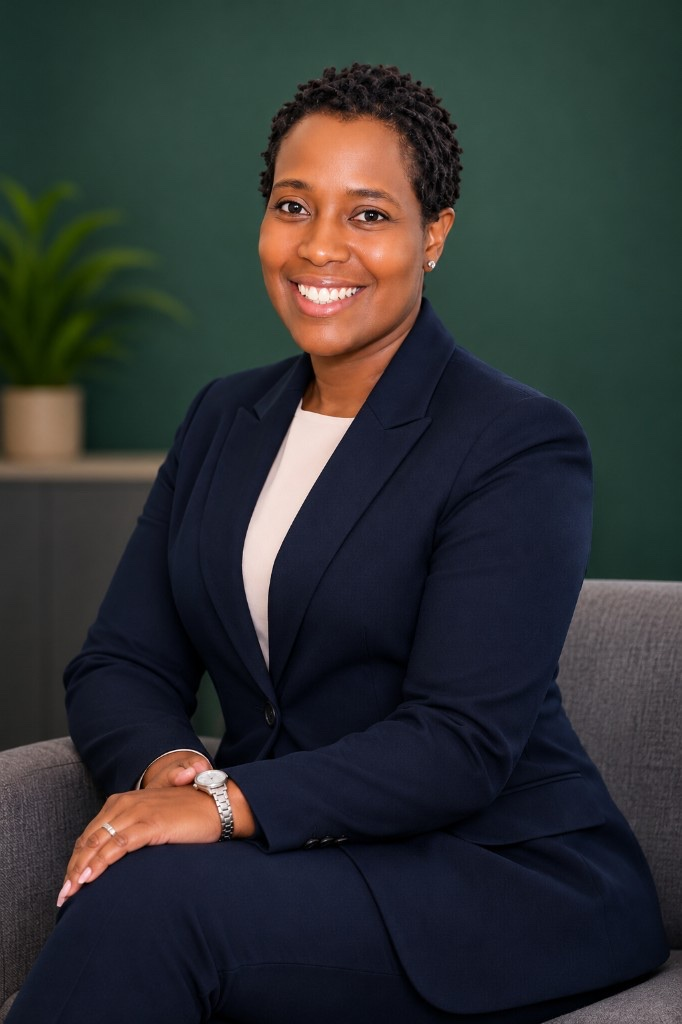
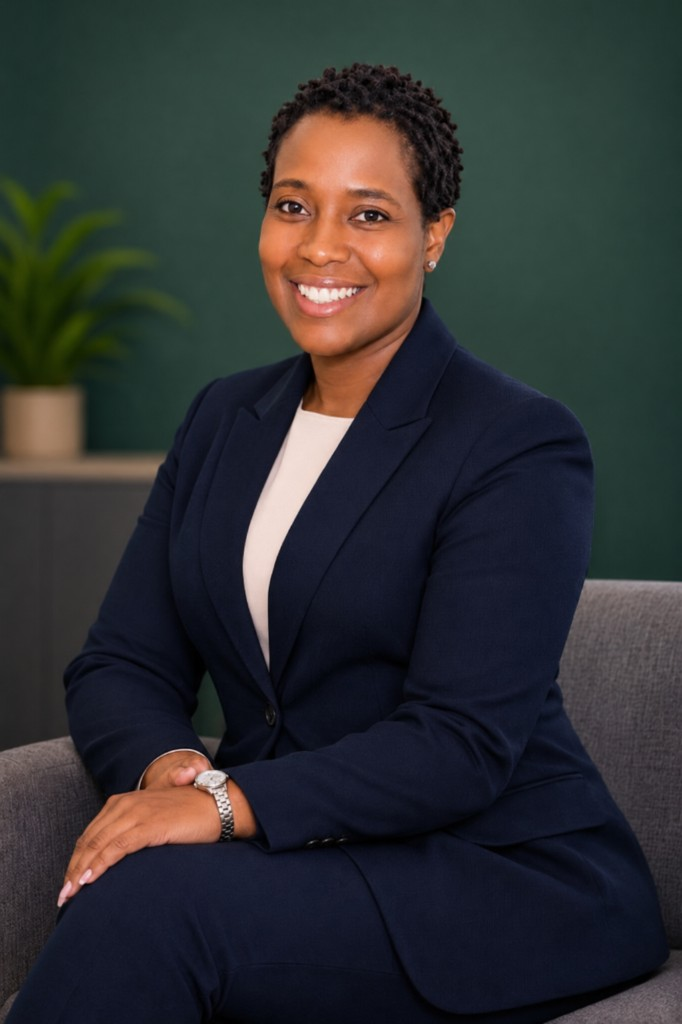
Open demos in Calendly, refresh Eliza’s portrait, and fix modal scrolling.
Request a demo now launches the discovery-call booker, the ring-free portrait is live, and portfolio modals stay within the viewport with a scrollable body on stacked layouts.

diff --git a/src/styles.css b/src/styles.css
@@ -1224,6 +1224,7 @@ html, body { max-width: 100%; overflow-x: clip; }
   position: fixed; z-index: 300; inset: 0; display: grid; place-items: center;
   padding: 24px; background: rgba(4, 17, 12, 0.8); backdrop-filter: blur(13px);
   opacity: 0; transition: opacity 0.32s ease;
+  overflow: auto; overscroll-behavior: contain;
 }
 .modal-backdrop.is-opening,
 .modal-backdrop.is-open { opacity: 1; }
@@ -1233,7 +1234,7 @@ html, body { max-width: 100%; overflow-x: clip; }
   grid-template-columns: minmax(0, 1.15fr) minmax(340px, 0.9fr);
   align-items: stretch;
   width: min(1080px, 100%);
-  max-height: min(820px, calc(100vh - 48px));
+  max-height: min(820px, calc(100dvh - 48px), calc(100vh - 48px));
   overflow: hidden; color: #0d261d; background: #f4f3eb; border-radius: 24px;
   box-shadow: 0 42px 120px rgba(0, 0, 0, 0.4);
   transform-origin: center center;
@@ -1326,8 +1327,11 @@ html, body { max-width: 100%; overflow-x: clip; }
   animation: none;
 }
 .modal-copy {
-  overflow: visible; padding: 48px 40px 40px;
-  display: flex; flex-direction: column; justify-content: center;
+  min-height: 0; overflow-x: hidden; overflow-y: auto;
+  overscroll-behavior: contain;
+  padding: 48px 40px 40px;
+  display: flex; flex-direction: column; justify-content: flex-start;
+  -webkit-overflow-scrolling: touch;
 }
 .modal-client {
   margin: 0 0 18px; color: #576a5e; font-size: 0.76rem;
@@ -1469,13 +1473,27 @@ html, body { max-width: 100%; overflow-x: clip; }
   .footer-grid { grid-template-columns: 1fr 1fr; }
   .footer-links { grid-column: 1 / -1; }
   .project-modal {
-    grid-template-columns: 1fr; max-width: 760px;
-    max-height: calc(100vh - 48px); overflow: hidden;
+    grid-template-columns: 1fr;
+    grid-template-rows: auto auto;
+    align-content: start;
+    max-width: 760px;
+    max-height: calc(100dvh - 24px);
+    max-height: calc(100vh - 24px);
+    overflow-x: hidden;
+    overflow-y: auto;
+    overscroll-behavior: contain;
+    -webkit-overflow-scrolling: touch;
   }
   .modal-media {
-    height: auto; min-height: 260px; max-height: 40vh;
+    height: auto; min-height: 200px; max-height: 34vh;
   }
-  .modal-copy { overflow-y: auto; }
+  .modal-slides { padding: 78px 14px 52px; }
+  .modal-slide img { max-height: min(260px, 26vh); }
+  .modal-copy {
+    overflow: visible;
+    justify-content: flex-start;
+    padding: 28px 28px 28px;
+  }
 }
 
 @media (max-width: 640px) {
@@ -1528,11 +1546,16 @@ html, body { max-width: 100%; overflow-x: clip; }
   .footer-links { grid-template-columns: repeat(2, 1fr); }
   .footer-base { display: grid; gap: 8px; }
   .modal-backdrop { align-items: end; padding: 0; }
-  .project-modal { max-height: 94vh; border-radius: 20px 20px 0 0; }
-  .modal-media { max-height: 38vh; }
+  .project-modal {
+    width: 100%; max-width: none;
+    max-height: 94dvh; max-height: 94vh;
+    border-radius: 20px 20px 0 0;
+  }
+  .modal-media { max-height: 30vh; min-height: 180px; }
   .modal-media-header { padding: 16px 14px 22px; }
-  .modal-slides { padding: 84px 12px 58px; }
-  .modal-copy { padding: 28px 22px 24px; }
+  .modal-slides { padding: 76px 12px 52px; }
+  .modal-slide img { max-height: min(200px, 22vh); }
+  .modal-copy { padding: 24px 20px calc(28px + env(safe-area-inset-bottom, 0px)); }
   .people-grid { gap: 12px; min-height: 0; }
   .person-frame { min-height: 480px; }
   .person-caption h3 { font-size: 1.05rem; }

diff --git a/src/App.tsx b/src/App.tsx
@@ -152,7 +152,7 @@ const innovations = [
       "Accessibility evaluation against WCAG 2.1 AA",
     ],
     cta: "Request a demo",
-    href: enquireEmail("Course Quality Benchmarking Platform demo"),
+    calendly: true,
     secondaryCta: "WhatsApp",
     secondaryHref: enquireWhatsApp("Course Quality Benchmarking Platform") ?? undefined,
   },
@@ -826,12 +826,22 @@ function App() {
                     </ul>
                     <div className="product-compact-cta">
                       <div className="product-compact-actions">
-                        <a
-                          className="button button-gold product-compact-action"
-                          href={item.href}
-                        >
-                          {item.cta}
-                        </a>
+                        {"calendly" in item && item.calendly ? (
+                          <button
+                            className="button button-gold product-compact-action"
+                            type="button"
+                            onClick={openCalendly}
+                          >
+                            <Calendar size={17} /> {item.cta}
+                          </button>
+                        ) : (
+                          <a
+                            className="button button-gold product-compact-action"
+                            href={"href" in item ? item.href : undefined}
+                          >
+                            {item.cta}
+                          </a>
+                        )}
                         {item.secondaryHref && item.secondaryCta && (
                           <a
                             className="button button-outline product-compact-action"
@@ -899,12 +909,13 @@ function App() {
                 </p>
               </div>
               <div className="button-row platform-actions">
-                <a
+                <button
                   className="button button-primary"
-                  href={enquireEmail("Course Quality Benchmarking Platform demo")}
+                  type="button"
+                  onClick={openCalendly}
                 >
-                  <Mail size={17} /> Request a demo
-                </a>
+                  <Calendar size={17} /> Request a demo
+                </button>
                 {platformWhatsApp && (
                   <a
                     className="button button-outline"

diff --git a/src/data/contact.ts b/src/data/contact.ts
@@ -36,7 +36,7 @@ export const leaders = [
     shortName: "Eliza",
     role: "Co-founder · Learning strategy & analytics",
     bio: "Eliza brings over 18 years of leadership in instructional design, faculty development and learning analytics, alongside nearly two decades teaching college-level mathematics. She specializes in accessibility, Universal Design for Learning, AI automation and data-informed transformation for universities and organizations worldwide.",
-    image: "/team/eliza-osae-kwapong-portrait.jpg",
+    image: "/team/eliza-osae-kwapong-portrait.jpg?v=20261112",
     phone: "+14439399177",
     phoneDisplay: "+1 (443) 939-9177",
     email: `eliza@${CONTACT_DOMAIN}`,
